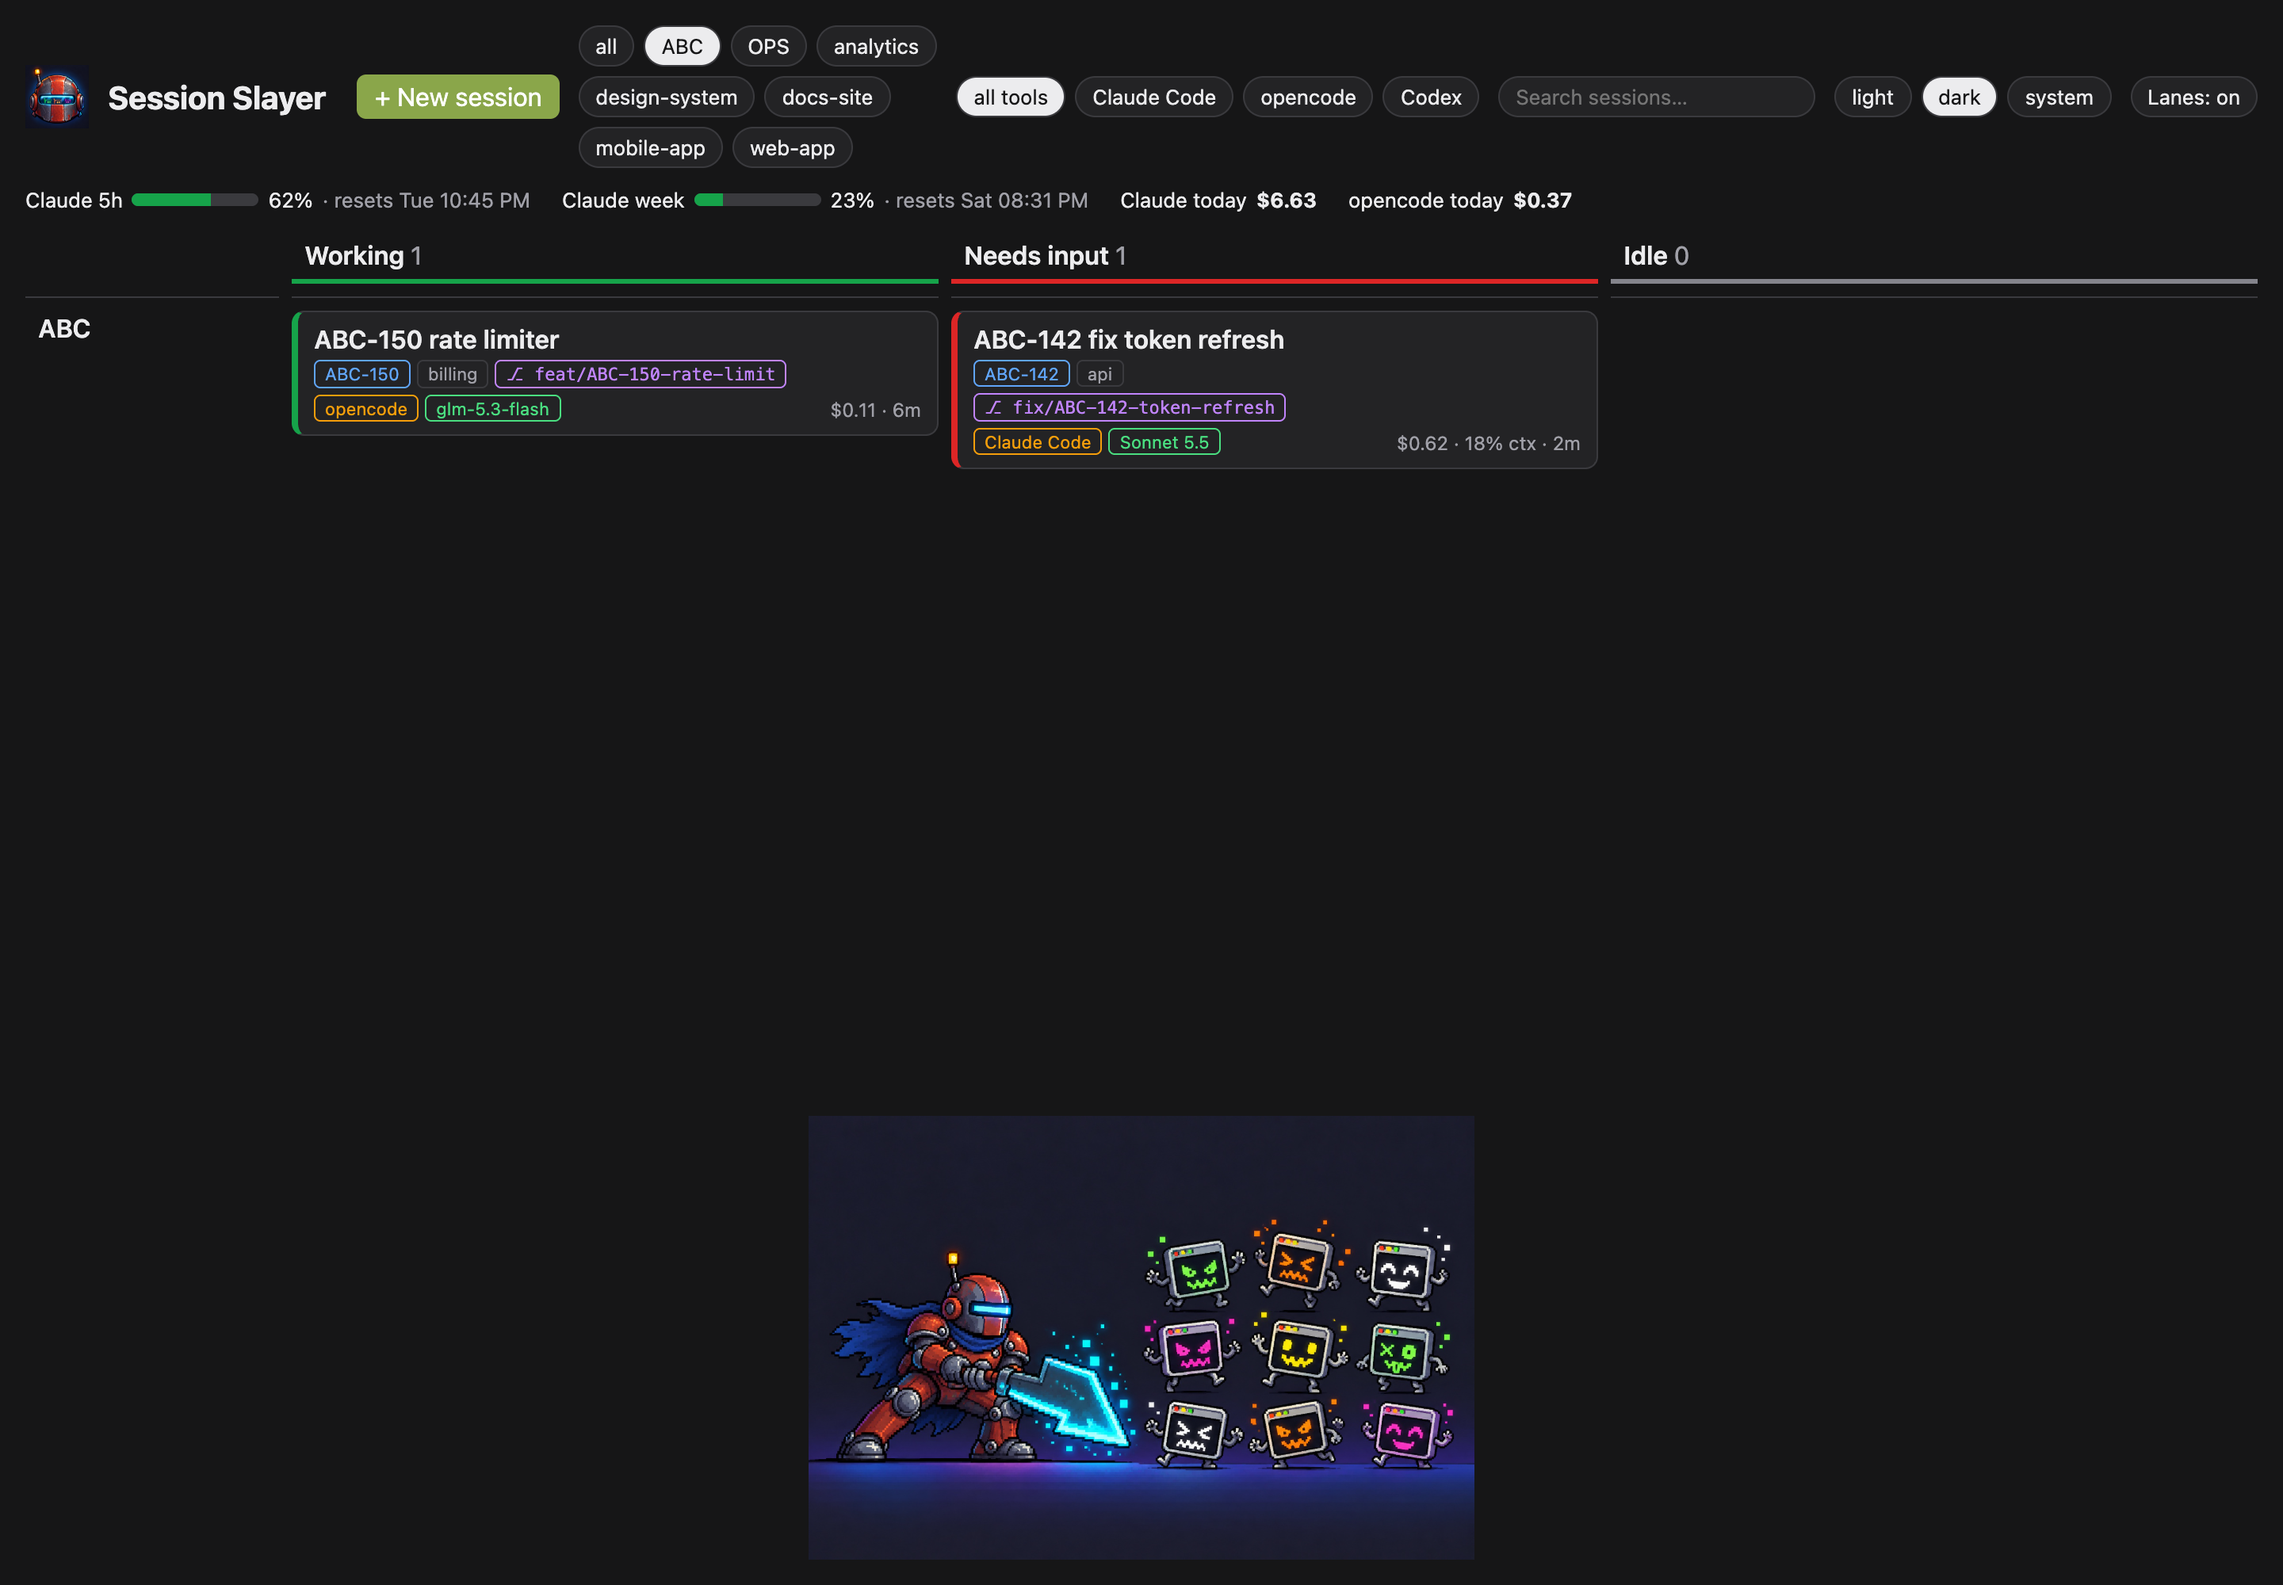
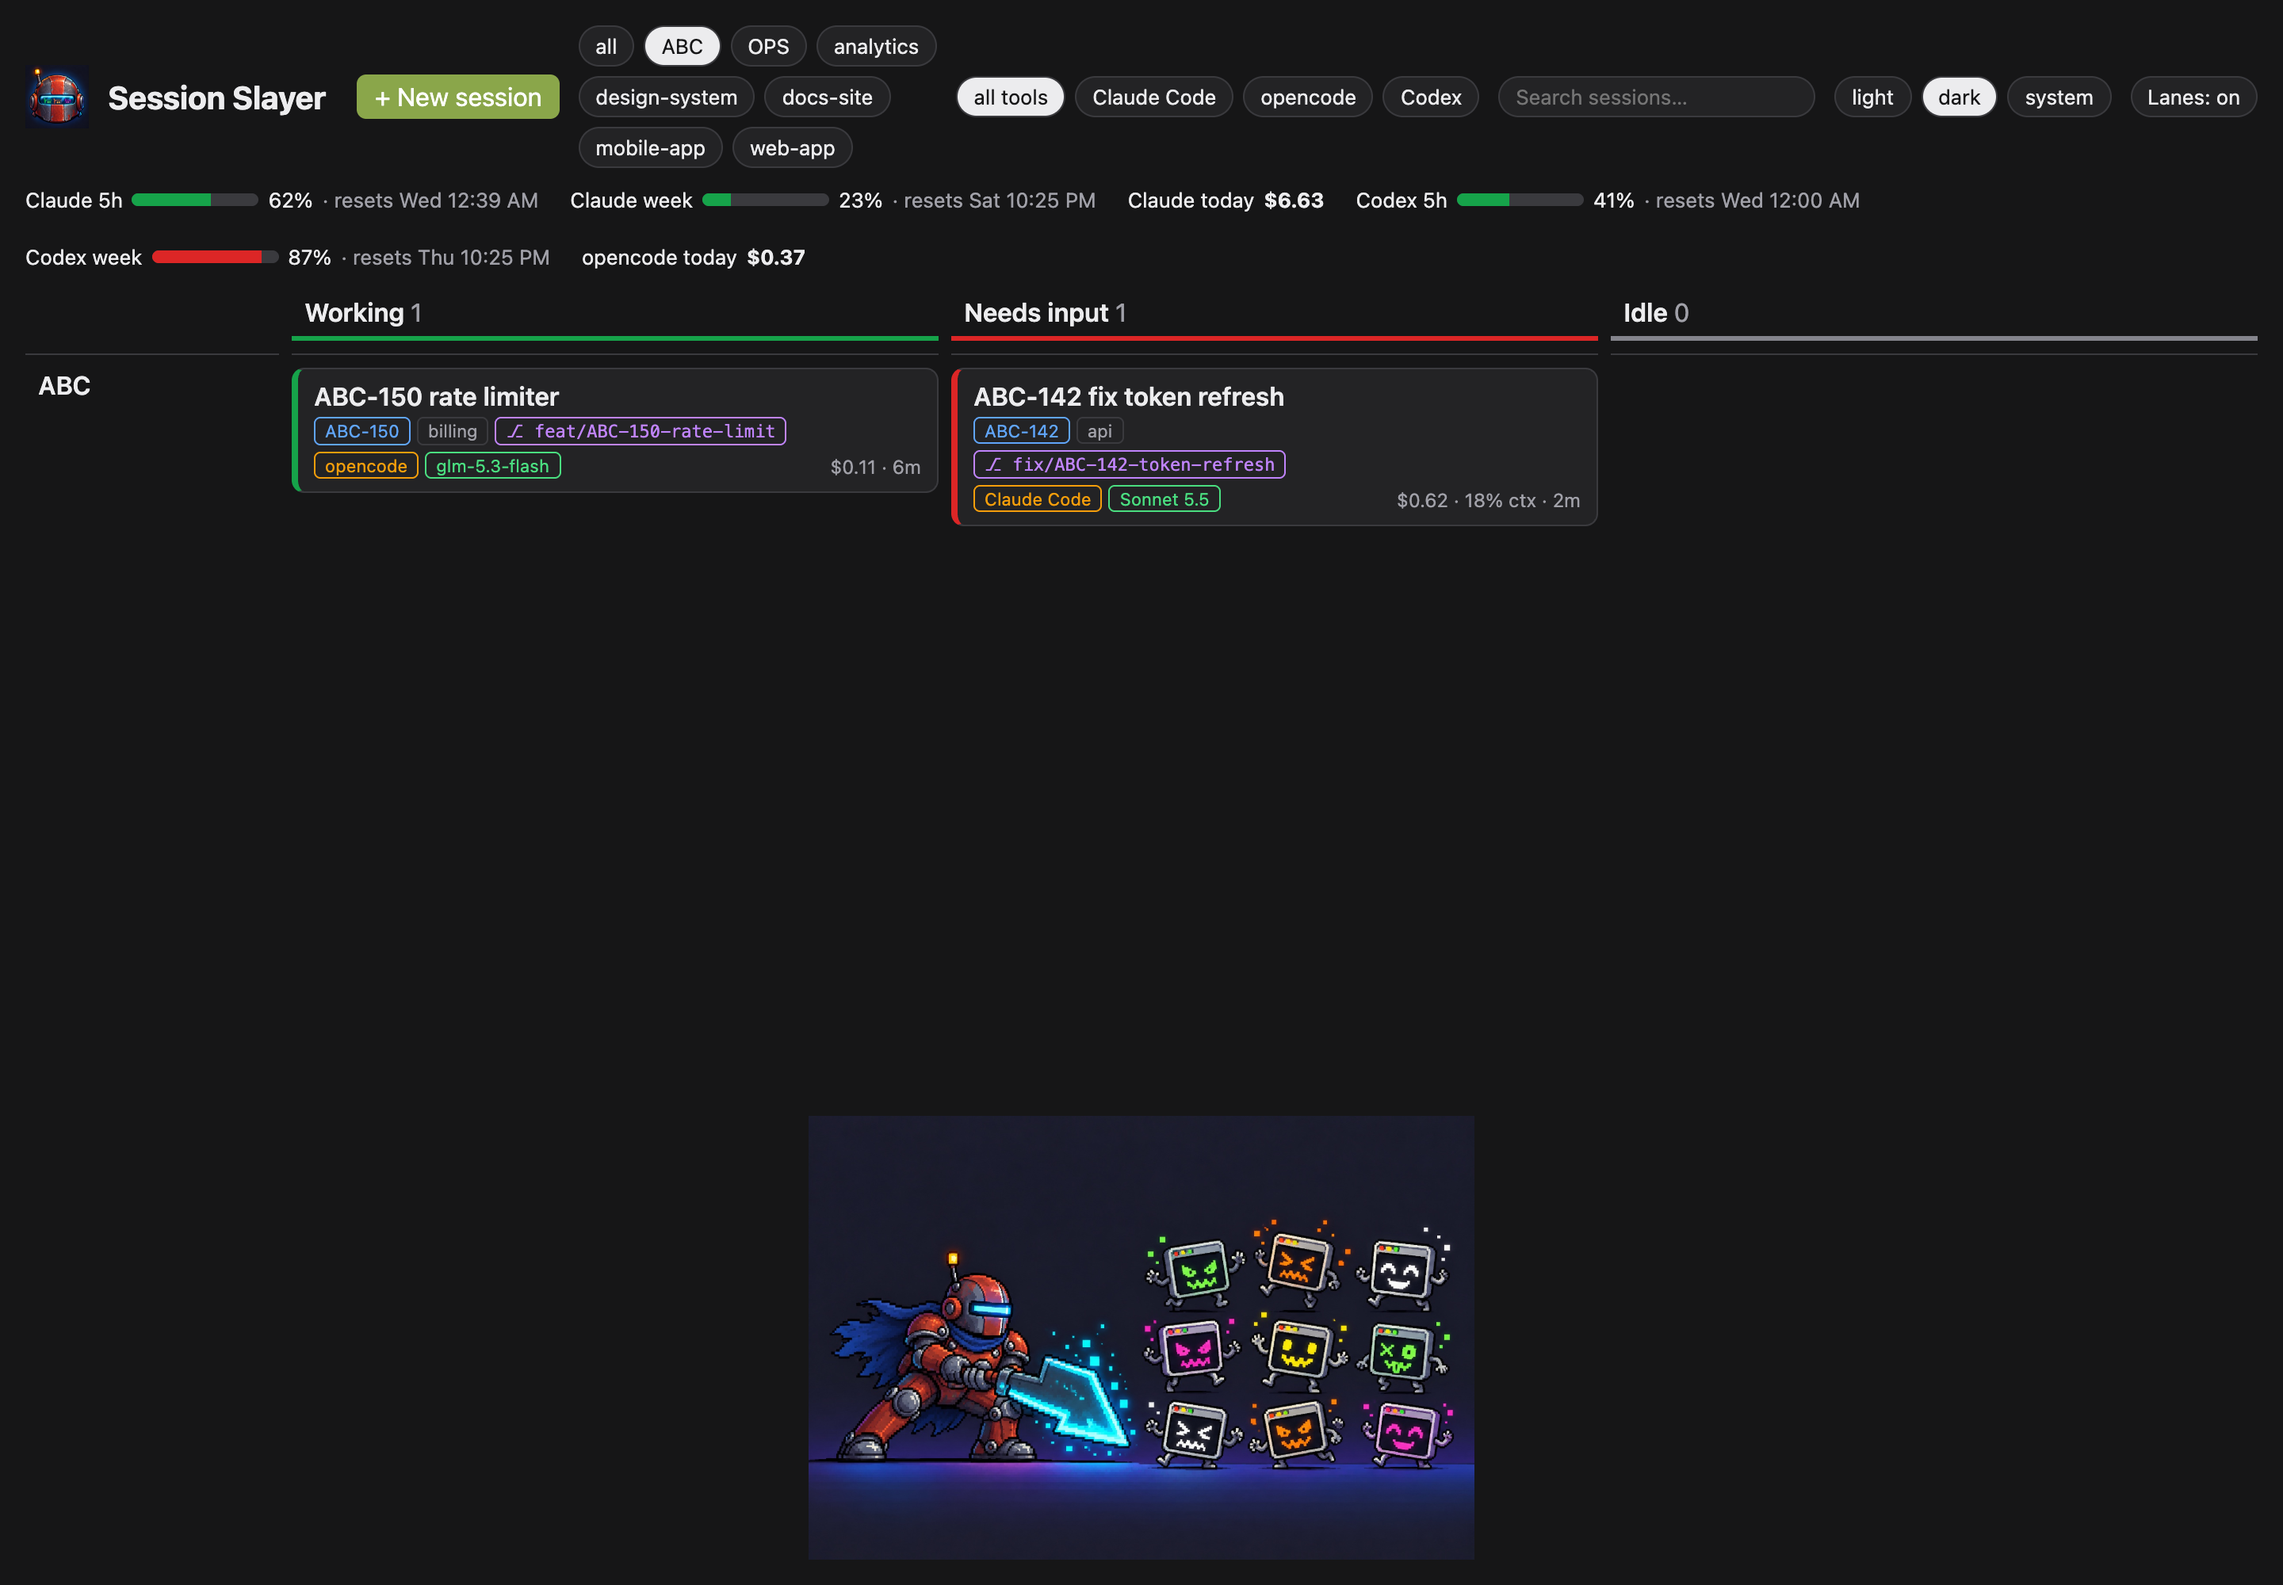
feat: show Codex 5-hour and weekly plan limits
Read the newest rate-limit snapshot from ~/.codex/sessions rollout files and show it as two meters next to the Claude ones. Demo data and screenshots updated.

diff --git a/src/sources/codexStatus.ts b/src/sources/codexStatus.ts
@@ -1,0 +1,64 @@
+import fs from 'node:fs';
+import path from 'node:path';
+import type { Limit } from './claudeStatus';
+
+// Codex writes its plan limits into its session files (~/.codex/sessions/YYYY/MM/DD/rollout-*.jsonl):
+// every `token_count` event has payload.rate_limits.primary (5 hours) and .secondary (week).
+export type CodexLimits = { fiveHour?: Limit; week?: Limit };
+
+type Window = { used_percent?: number; usedPercent?: number; resets_at?: number; resetsAt?: number } | undefined;
+
+function limit(w: Window, now: number): Limit | undefined {
+  const pct = w?.used_percent ?? w?.usedPercent;
+  const resets = w?.resets_at ?? w?.resetsAt;
+  if (typeof pct !== 'number' || !resets) return undefined;
+  const resetsAt = resets < 1e12 ? resets * 1000 : resets; // seconds or ms
+  return resetsAt > now ? { pct, resetsAt } : undefined; // window already reset
+}
+
+// Pure: the newest rate-limit snapshot in the text of a session file.
+export function parseCodexLimits(text: string, now = Date.now()): CodexLimits | undefined {
+  const lines = text.split('\n');
+  for (let i = lines.length - 1; i >= 0; i--) {
+    if (!lines[i].includes('rate_limits')) continue;
+    try {
+      const r = JSON.parse(lines[i])?.payload?.rate_limits;
+      if (r) return { fiveHour: limit(r.primary, now), week: limit(r.secondary, now) };
+    } catch {
+      // partial line
+    }
+  }
+  return undefined;
+}
+
+// The most recently written session files, looking only at the last few day folders.
+function newestFiles(sessionsDir: string, days = 7): string[] {
+  const files: { f: string; m: number }[] = [];
+  const now = new Date();
+  for (let d = 0; d < days; d++) {
+    const day = new Date(now.getFullYear(), now.getMonth(), now.getDate() - d);
+    const dir = path.join(sessionsDir, String(day.getFullYear()), String(day.getMonth() + 1).padStart(2, '0'), String(day.getDate()).padStart(2, '0'));
+    if (!fs.existsSync(dir)) continue;
+    for (const name of fs.readdirSync(dir)) {
+      if (!name.endsWith('.jsonl')) continue;
+      const f = path.join(dir, name);
+      files.push({ f, m: fs.statSync(f).mtimeMs });
+    }
+  }
+  return files.sort((a, b) => b.m - a.m).map((x) => x.f);
+}
+
+export function readCodexLimits(codexDir: string, now = Date.now()): CodexLimits | undefined {
+  for (const file of newestFiles(path.join(codexDir, 'sessions')).slice(0, 5)) {
+    // read only the end of the file: the newest snapshot is near the bottom
+    const size = fs.statSync(file).size;
+    const len = Math.min(size, 256 * 1024);
+    const buf = Buffer.alloc(len);
+    const fd = fs.openSync(file, 'r');
+    fs.readSync(fd, buf, 0, len, size - len);
+    fs.closeSync(fd);
+    const limits = parseCodexLimits(buf.toString('utf8'), now);
+    if (limits) return limits;
+  }
+  return undefined;
+}

diff --git a/src/app.ts b/src/app.ts
@@ -6,6 +6,7 @@ import type { Names } from './names';
 import type { Runner } from './run';
 import { listClaudeSessions } from './sources/claudeAgents';
 import { type ClaudeStatus, readClaudeStatus } from './sources/claudeStatus';
+import { type CodexLimits, readCodexLimits } from './sources/codexStatus';
 import type { OpencodeResult } from './sources/opencode';
 import { type EventStore, firstPromptFromTranscript } from './sources/hookEvents';
 import type { Board, Column, LiveSession } from './types';
@@ -31,6 +32,7 @@ export type AppDeps = {
   statusDir?: string;
   createOpencode?: (directory: string, title: string) => Promise<string>;
   listCodex?: () => Promise<LiveSession[]>;
+  codexDir?: string; // ~/.codex, for Codex plan limits
   demo?: boolean; // made-up sessions: actions are turned off
 };
 
@@ -43,6 +45,7 @@ export class App {
   private sessionsError?: string;
   private opencodeError?: string;
   private codexError?: string;
+  private codexLimits?: CodexLimits;
   private pendingNames = new Map<number, string>(); // WezTerm pane id -> name for a Codex session not seen yet
   private opencodeTodayUsd?: number;
   private claudeStatus: ClaudeStatus = { perSession: new Map(), todayUsd: 0 };
@@ -75,6 +78,13 @@ export class App {
     }
     this.sessions = [...claude, ...opencode, ...this.sessions.filter((s) => s.tool === 'codex')];
     if (this.deps.statusDir) this.claudeStatus = readClaudeStatus(this.deps.statusDir);
+    if (this.deps.codexDir) {
+      try {
+        this.codexLimits = readCodexLimits(this.deps.codexDir);
+      } catch {
+        this.codexLimits = undefined; // Codex not installed or files unreadable
+      }
+    }
     if (!this.compacted && !this.sessionsError) {
       this.deps.events.compact(new Set(this.sessions.map((s) => s.sessionId)));
       this.compacted = true;
@@ -181,6 +191,8 @@ export class App {
       claude5h: this.claudeStatus.fiveHour,
       claude7d: this.claudeStatus.sevenDay,
       claudeTodayUsd: this.deps.statusDir ? this.claudeStatus.todayUsd : undefined,
+      codex5h: this.codexLimits?.fiveHour,
+      codex7d: this.codexLimits?.week,
       opencodeTodayUsd: this.opencodeTodayUsd,
     };
     const errors = [this.sessionsError, this.opencodeError, this.codexError, this.weztermAvailable ? undefined : 'WezTerm is not installed'];

diff --git a/test/codexStatus.test.ts b/test/codexStatus.test.ts
@@ -1,0 +1,31 @@
+import fs from 'node:fs';
+import os from 'node:os';
+import path from 'node:path';
+import { expect, it } from 'vitest';
+import { parseCodexLimits, readCodexLimits } from '../src/sources/codexStatus';
+
+const now = Date.now();
+const future = Math.floor(now / 1000) + 3600;
+const event = (rate_limits: object) => JSON.stringify({ type: 'event_msg', payload: { type: 'token_count', rate_limits } });
+
+it('parseCodexLimits: newest snapshot wins; seconds or ms; expired windows dropped; camelCase accepted', () => {
+  const text = [
+    event({ primary: { used_percent: 10, resets_at: future } }),
+    '{"type":"other"}',
+    event({ primary: { used_percent: 40, resets_at: future }, secondary: { used_percent: 90, resets_at: Math.floor(now / 1000) - 5 } }),
+    '{"partial',
+  ].join('\n');
+  expect(parseCodexLimits(text, now)).toEqual({ fiveHour: { pct: 40, resetsAt: future * 1000 }, week: undefined });
+  expect(parseCodexLimits(event({ secondary: { usedPercent: 7, resetsAt: future * 1000 } }), now)).toEqual({ fiveHour: undefined, week: { pct: 7, resetsAt: future * 1000 } });
+  expect(parseCodexLimits('{"type":"x"}', now)).toBeUndefined();
+});
+
+it("readCodexLimits: reads today's newest session file", () => {
+  const dir = fs.mkdtempSync(path.join(os.tmpdir(), 'slayer-codex-'));
+  const d = new Date();
+  const day = path.join(dir, 'sessions', String(d.getFullYear()), String(d.getMonth() + 1).padStart(2, '0'), String(d.getDate()).padStart(2, '0'));
+  fs.mkdirSync(day, { recursive: true });
+  fs.writeFileSync(path.join(day, 'rollout-a.jsonl'), event({ primary: { used_percent: 55, resets_at: future } }) + '\n');
+  expect(readCodexLimits(dir, now)?.fiveHour?.pct).toBe(55);
+  expect(readCodexLimits(path.join(dir, 'missing'), now)).toBeUndefined();
+});

diff --git a/src/demo.ts b/src/demo.ts
@@ -141,6 +141,24 @@ export function createDemoApp(now = Date.now()): App {
         ...(tool === 'codex' ? { model: d.model } : {}),
       }));
 
+  // Codex plan limits, as Codex writes them into its session files.
+  const day = new Date(now);
+  const codexDay = path.join(home, '.codex', 'sessions', String(day.getFullYear()), String(day.getMonth() + 1).padStart(2, '0'), String(day.getDate()).padStart(2, '0'));
+  fs.mkdirSync(codexDay, { recursive: true });
+  fs.writeFileSync(
+    path.join(codexDay, 'rollout-demo.jsonl'),
+    JSON.stringify({
+      type: 'event_msg',
+      payload: {
+        type: 'token_count',
+        rate_limits: {
+          primary: { used_percent: 41, window_minutes: 300, resets_at: Math.floor((now + 95 * MIN) / 1000) },
+          secondary: { used_percent: 87, window_minutes: 10080, resets_at: Math.floor((now + 2 * 24 * 60 * MIN) / 1000) },
+        },
+      },
+    }) + '\n',
+  );
+
   return new App({
     run,
     events: new EventStore(path.join(data, 'events.jsonl')),
@@ -148,6 +166,7 @@ export function createDemoApp(now = Date.now()): App {
     wezterm: new WezTerm(run, 'wezterm'),
     home,
     statusDir,
+    codexDir: path.join(home, '.codex'),
     listSessions: async () => live('claude'),
     listOpencode: async () => ({ sessions: live('opencode'), todayUsd: 0.37 }),
     listCodex: async () => live('codex'),

diff --git a/web/App.tsx b/web/App.tsx
@@ -212,7 +212,7 @@ function Meter({ label, limit }: { label: string; limit: { pct: number; resetsAt
 }
 
 function UsageBar({ usage }: { usage: Board['usage'] }) {
-  if (!usage.claude5h && !usage.claude7d && usage.claudeTodayUsd === undefined && usage.opencodeTodayUsd === undefined) return null;
+  if (!Object.values(usage).some((v) => v !== undefined)) return null;
   return (
     <div className="usage-bar">
       {usage.claude5h && <Meter label="Claude 5h" limit={usage.claude5h} />}
@@ -222,6 +222,8 @@ function UsageBar({ usage }: { usage: Board['usage'] }) {
           Claude today <strong>{money(usage.claudeTodayUsd)}</strong>
         </span>
       )}
+      {usage.codex5h && <Meter label="Codex 5h" limit={usage.codex5h} />}
+      {usage.codex7d && <Meter label="Codex week" limit={usage.codex7d} />}
       {usage.opencodeTodayUsd !== undefined && (
         <span className="meter">
           opencode today <strong>{money(usage.opencodeTodayUsd)}</strong>

diff --git a/src/cli.ts b/src/cli.ts
@@ -27,6 +27,7 @@ async function serve(demo = false): Promise<void> {
     statusDir: path.join(dataDir, 'status'),
     createOpencode: (dir, title) => createOpencodeSession(dir, title),
     listCodex: () => listCodexSessions(run, events),
+    codexDir: path.join(os.homedir(), '.codex'),
   });
   await app.poll();
   const server = createServer(app, path.join(root, 'dist', 'web'));

diff --git a/src/types.ts b/src/types.ts
@@ -60,6 +60,8 @@ export type Board = {
     claude5h?: { pct: number; resetsAt: number };
     claude7d?: { pct: number; resetsAt: number };
     claudeTodayUsd?: number;
+    codex5h?: { pct: number; resetsAt: number };
+    codex7d?: { pct: number; resetsAt: number };
     opencodeTodayUsd?: number;
   };
 };

diff --git a/README.md b/README.md
@@ -76,7 +76,7 @@ To undo the changes, restore the `.session-slayer.bak` files.
 | Model | status line | session | hook events |
 | Cost ($) | status line (estimate at list price) | session | — |
 | Context % | status line | — | — |
-| 5-hour / weekly plan % | status line (Pro and Max plans only) | — | — |
+| 5-hour / weekly plan % | status line (Pro and Max plans only) | — | its session files (`~/.codex/sessions`, ChatGPT plans) |
 
 ## Using it
 
